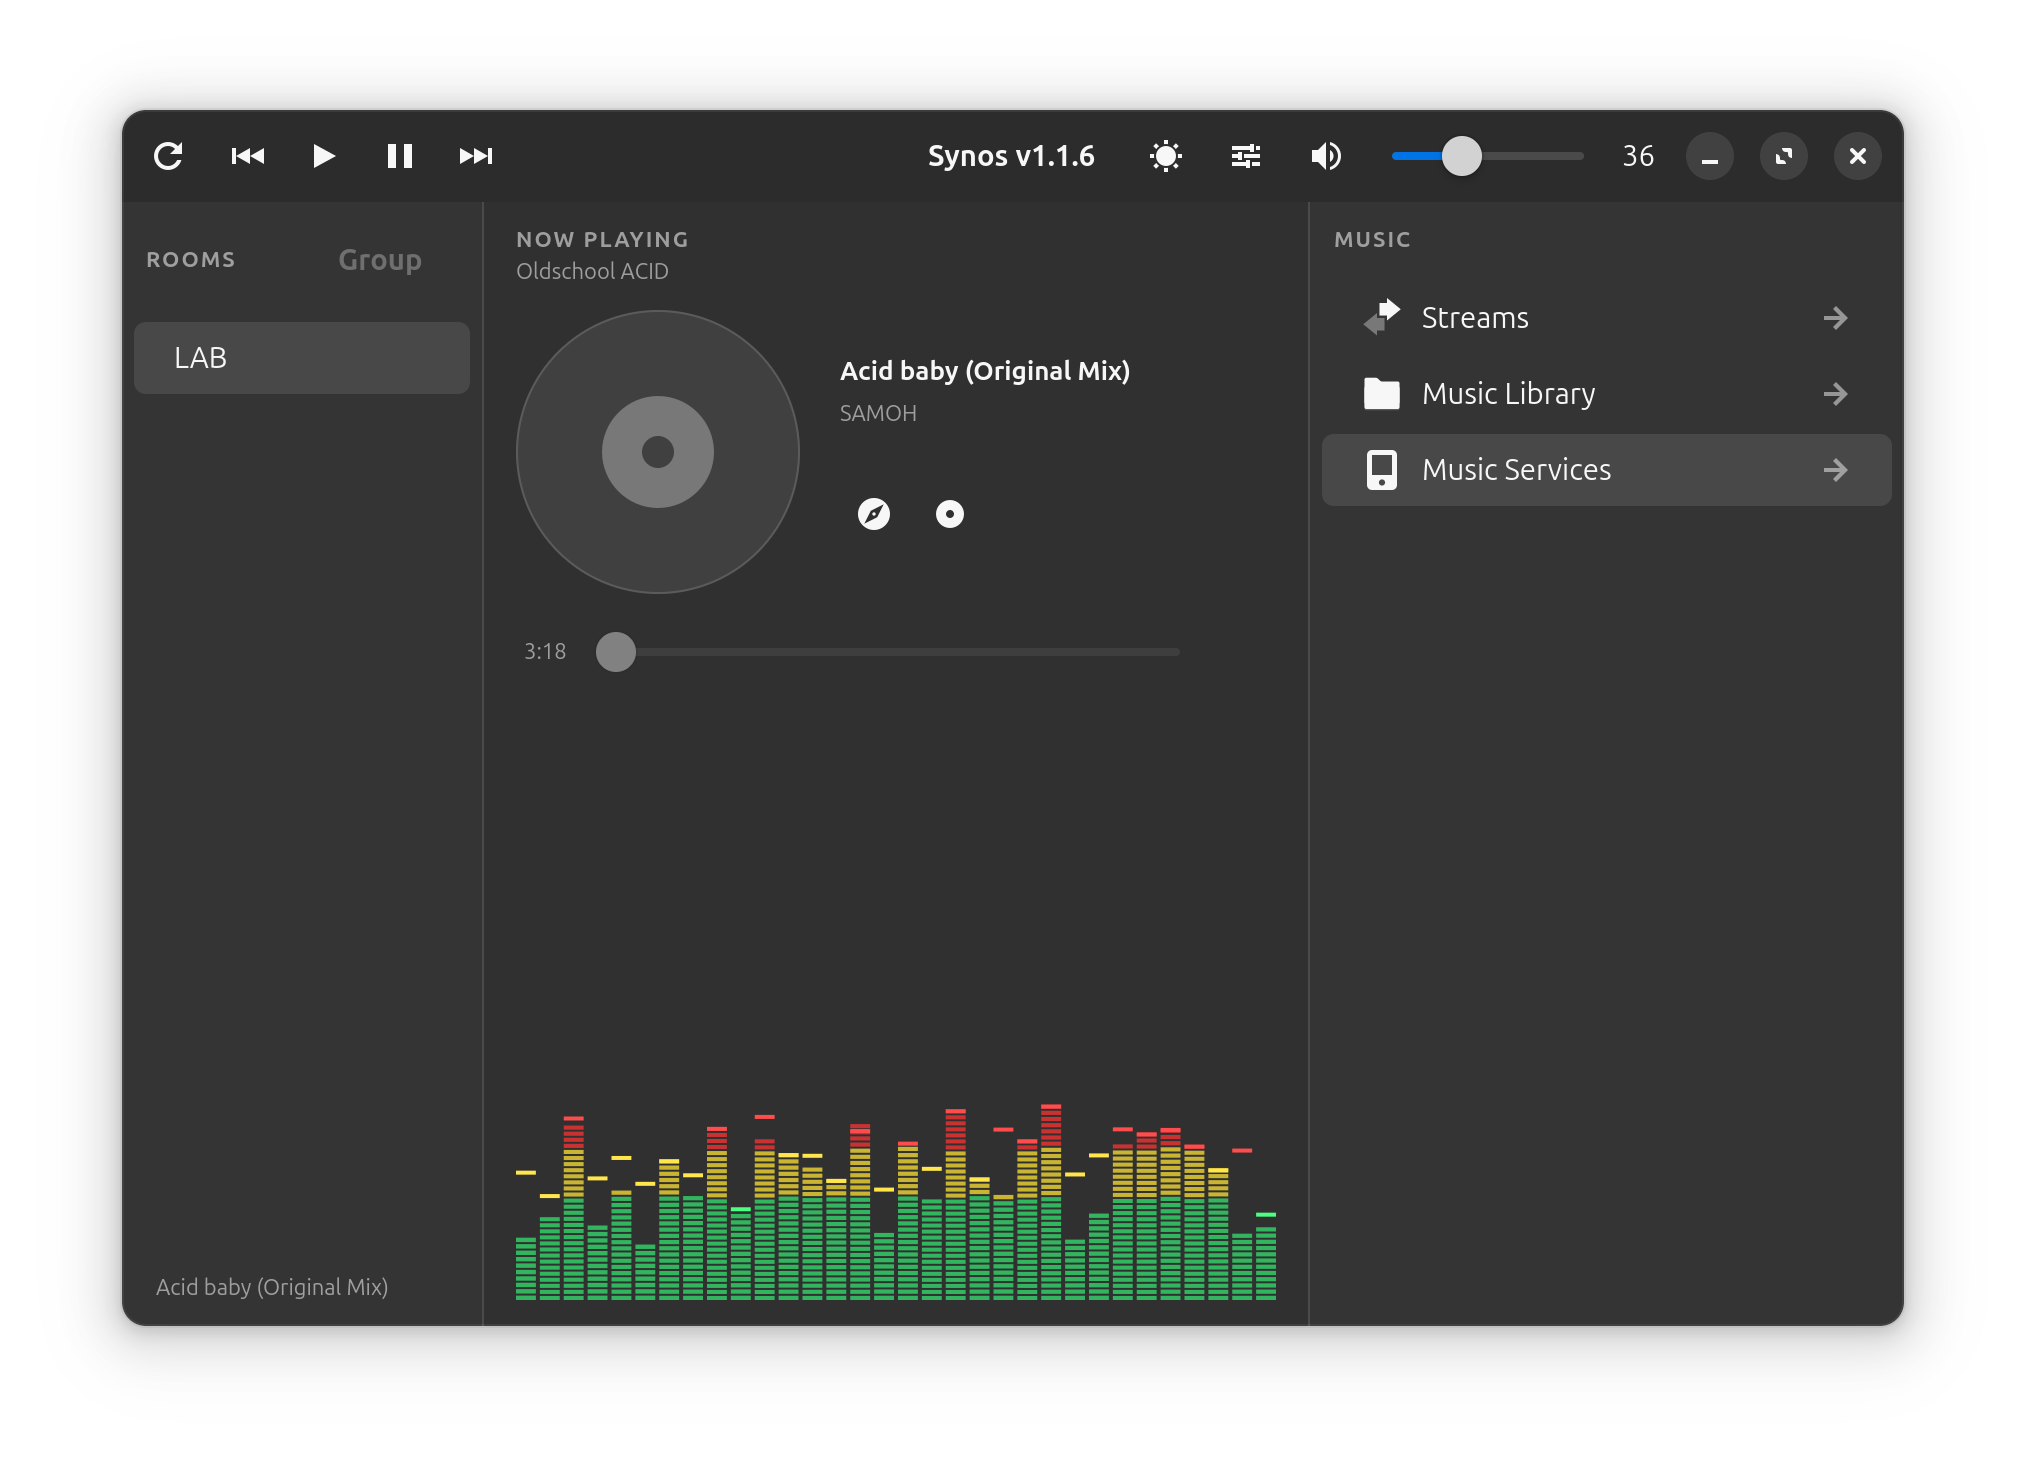
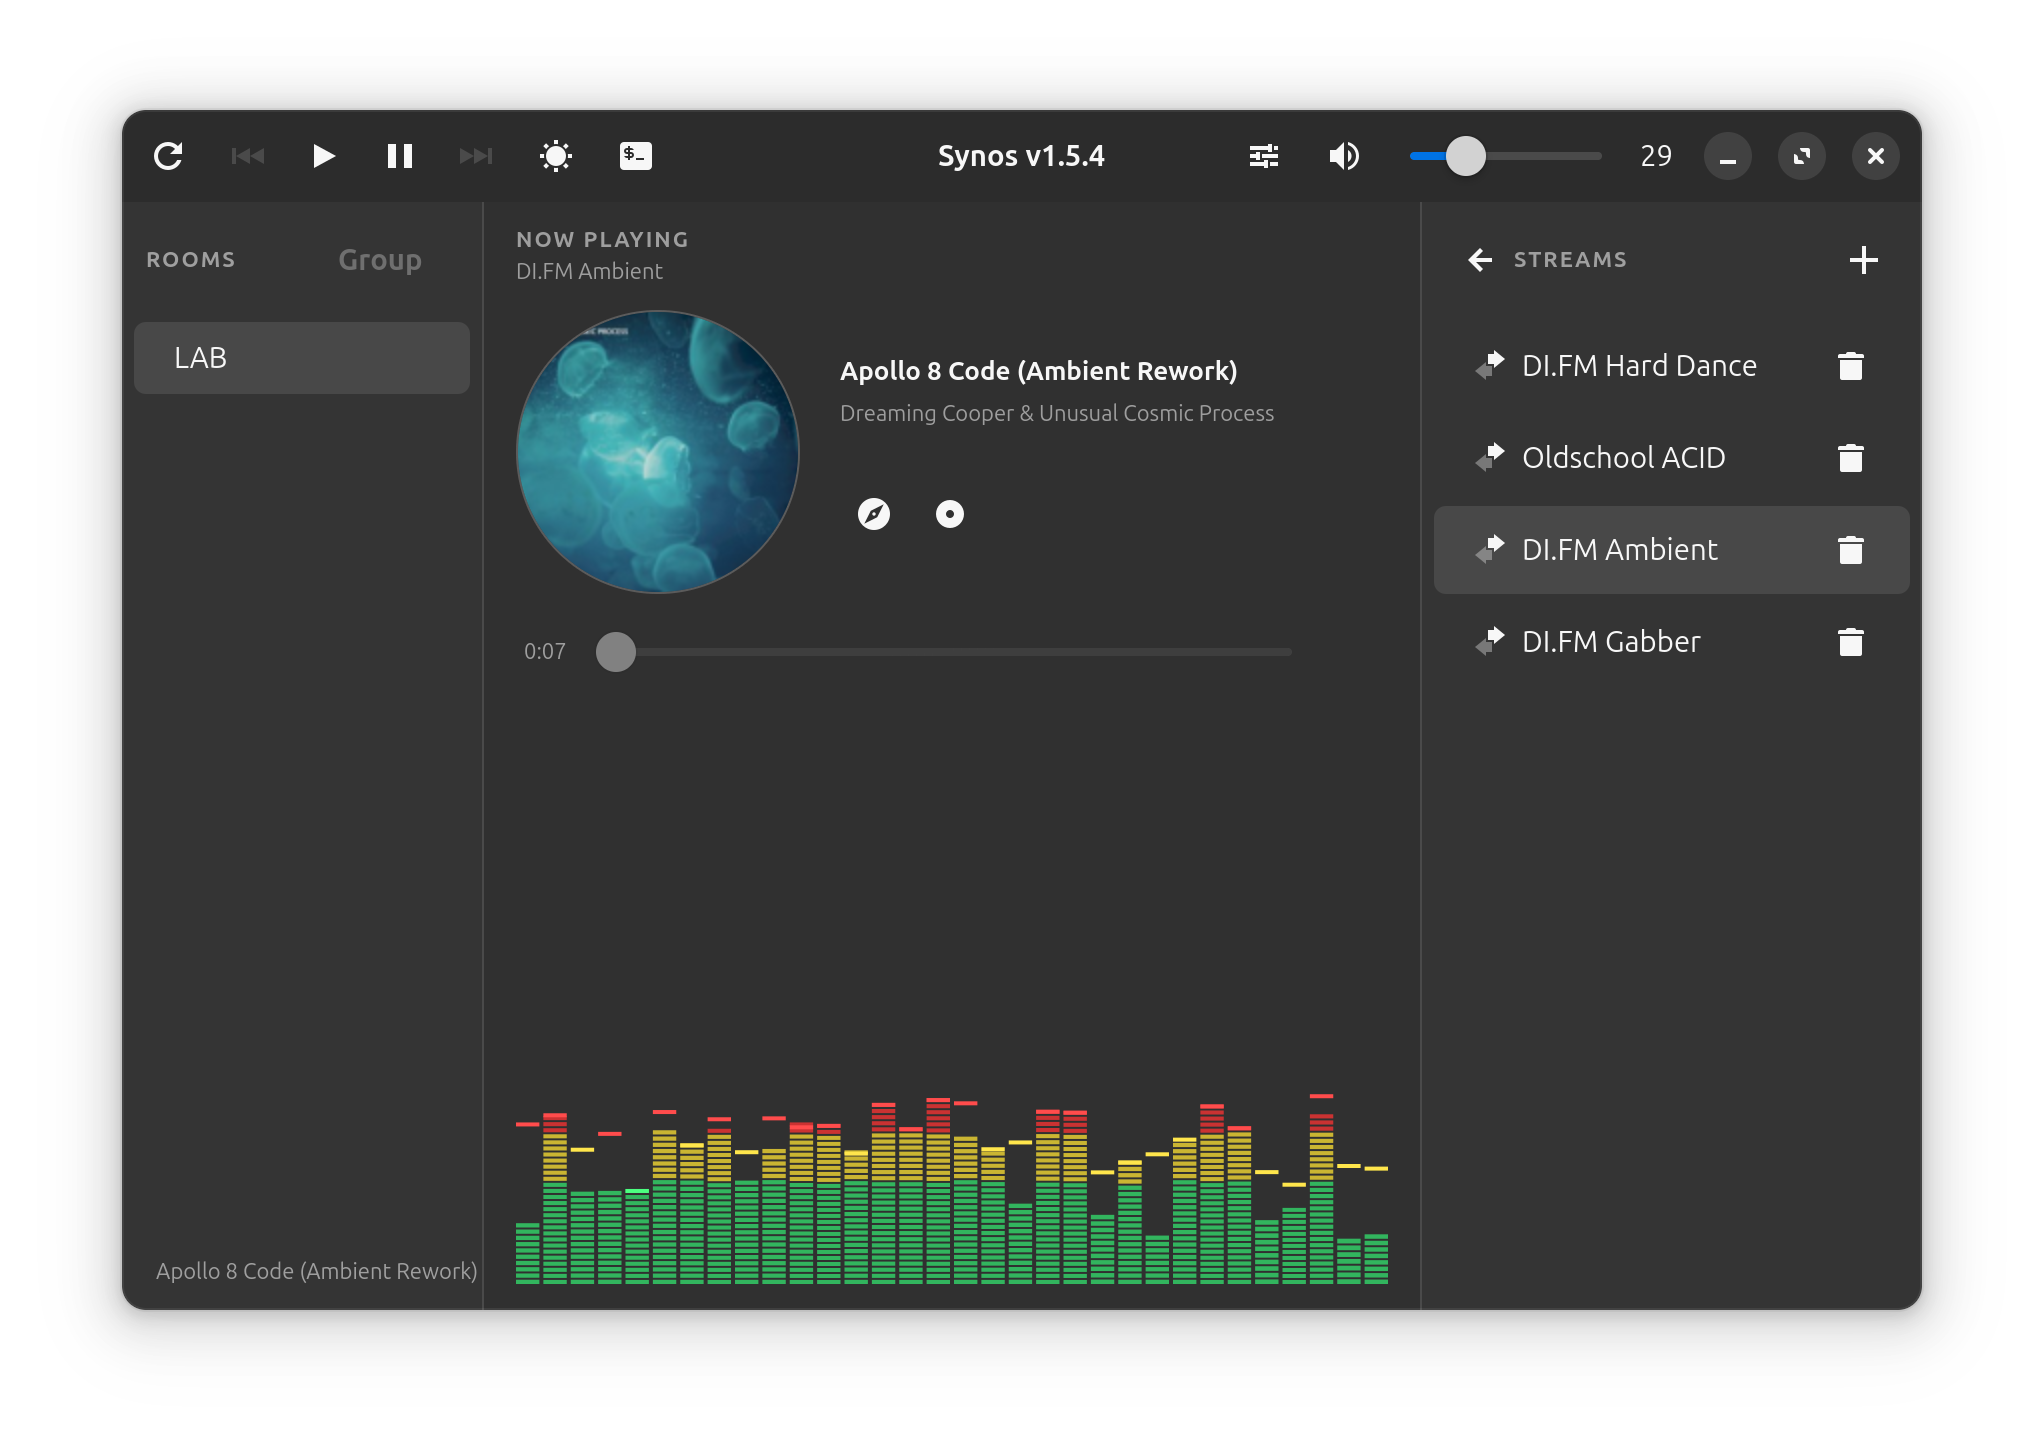
v1.6.0: Minor release — Keyboard shortcuts, updated screenshot

diff --git a/synos/__init__.py b/synos/__init__.py
@@ -1,3 +1,3 @@
 """Synos - A GTK4 Sonos controller."""
 
-__version__ = "1.5.4"
+__version__ = "1.6.0"

diff --git a/CHANGELOG.md b/CHANGELOG.md
@@ -1,22 +1,32 @@
 # Changelog
 
+## v1.6.0 — Minor release
+
+### New Features
+- **Keyboard Shortcuts** — Space: play/pause, F12: toggle console, Arrow Up/Down: volume +/- 2
+
+### Improvements
+- Album art smart retry increased to 5 attempts with artist variants and no-artist fallback
+- Skip album art lookup for Sonos internal states (ZPSTR_BUFFERING, etc.)
+- Updated screenshot with album art
+
 ## v1.5.0 — Minor release
 
 ### New Features
 - **Album Art** — Fetches cover art from MusicBrainz + Cover Art Archive
   - Background thread fetch, UI stays responsive
   - Persistent disk cache in `~/.config/synos/artcache/`
-  - Smart retry: tries up to 3 cleaned title variants (strips track numbers, artist prefix, mix tags)
+  - Smart retry: tries up to 5 cleaned title/artist variants
   - Resets to disc icon immediately on track change
 - **Console Log** — Collapsible log window at the bottom of the app
-  - Toggle via terminal icon in headerbar
+  - Toggle via terminal icon in headerbar or F12
   - Logs speaker discovery, playback, streams, album art, EQ, seek, auto-advance
   - Timestamped, color-coded (info/success/error), max 500 lines, newest first
   - Clear and close buttons in console header
-  - Detailed album art logging: cache hits/misses, MusicBrainz queries, CAA requests, URLs
+  - Detailed album art logging: cache hits/misses, MusicBrainz queries, CAA requests
 
 ### UI Changes
-- Theme and console toggle buttons moved to left side of headerbar (after transport controls)
+- Theme and console toggle buttons moved to left side of headerbar
 
 ## v1.2.0 — Minor release
 
@@ -57,7 +67,7 @@
 - Responsive slider and controls even with large files
 
 ### VU Meter
-- Refined random bar patterns (no more ocean wave effect)
+- Refined random bar patterns
 - Fixed height at 100px, pinned to bottom of center pane
 
 ### Previous features (v0.3.0)

diff --git a/README.md b/README.md
@@ -22,6 +22,7 @@ A GTK4 + Libadwaita Sonos controller for Linux.
 - **Light/Dark Mode** — Toggle with persistent preference
 - **Transport Controls** — Play, pause, prev, next, volume, mute from the headerbar
 - **Non-blocking UI** — All playback and network calls run in background threads
+- **Keyboard Shortcuts** — Space (play/pause), F12 (console), Arrow Up/Down (volume)
 
 ## Supported Audio Formats
 
